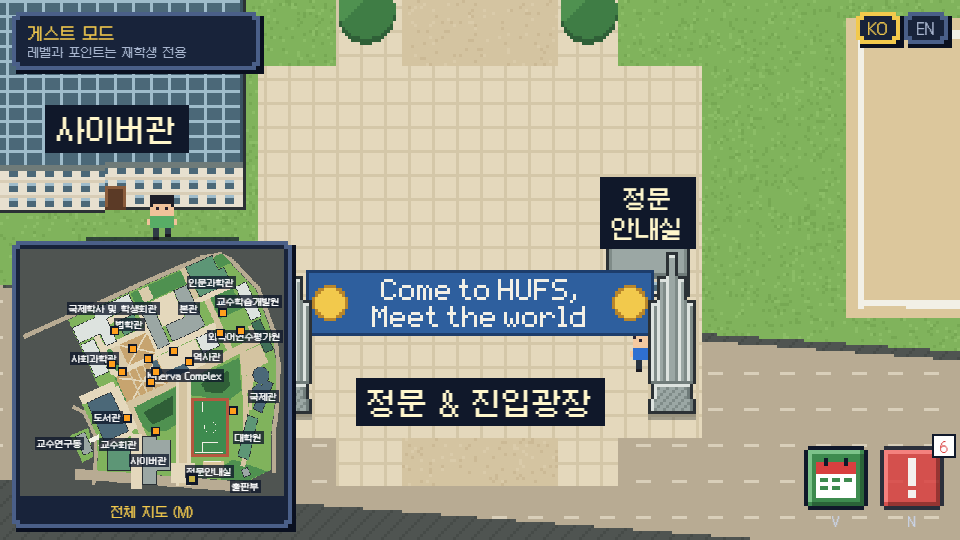
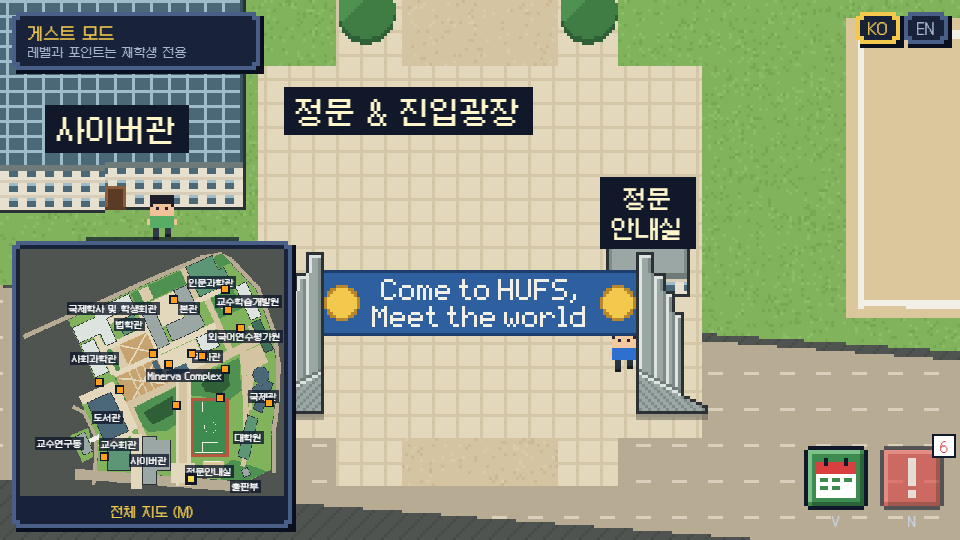
fix: 정문 기둥 24px 비대칭 · SPAWN 서쪽 6m · 광장 이름표 자리 옮김
- 기둥 16 → 24px, 참고 사진처럼 진입로 쪽이 가장 높고 넓은 판(바깥으로 낮아짐)과
  바깥으로 비스듬히 낮아지는 긴 경사 받침, 동 · 서 거울 대칭(빛은 왼쪽 위 그대로)
- 받침 판정 6m×2m로 다시 계산, 현수막 108px로 두 기둥 안쪽 면 사이에 물림
- SPAWN 서쪽 6m(x 1022 → 998): 첫 화면에서 두 기둥 · 현수막 · 정문안내실이
  PC 미니맵 · 휴대폰 미니맵 · 이동 패드 · 버튼 줄에 가리지 않게(테스트에 HUD 범위)
- "정문 & 진입광장" 이름표를 현수막 바로 아래에서 광장 왼쪽 위로(tagM)
- 캡처 교체 + 바꾸기 전 00-before.png, 문서 갱신

diff --git a/src/gfx/campusGate.js b/src/gfx/campusGate.js
@@ -27,9 +27,13 @@ const BANNER = {
   text: hex(PALETTE.line), // 흰 선 #f2f0e6
 };
 
-// 기둥 세로 석재 판 5장: [폭, 높이(바닥부터 px)] — 가운데가 가장 높음
-export const SLABS = [[3, 38], [3, 46], [4, 54], [3, 46], [3, 38]];
-export const BASE_H = 10; // 경사 받침 높이
+// 기둥 세로 석재 판(서쪽 기둥 기준, 바깥 → 진입로 쪽): [폭, 높이(바닥부터 px)].
+// 진입로 쪽(안쪽)이 가장 높고 넓은 판, 바깥으로 갈수록 낮아짐. 판은 바깥에서 SLAB_FROM px부터 서고, 그 바깥은 경사 받침만.
+export const SLABS = [[3, 34], [3, 41], [4, 47], [6, 54]];
+export const SLAB_FROM = 8;
+// 경사 받침: 진입로 쪽 높이 RAMP_HIGH px에서 바깥 끝 RAMP_LOW px까지 비스듬히 낮아짐(기둥 폭 전체, 사선 줄무늬)
+export const RAMP_HIGH = 14;
+export const RAMP_LOW = 3;
 
 function canvasData(w, h) {
   const data = new Uint8ClampedArray(w * h * 4);
@@ -40,41 +44,56 @@ function canvasData(w, h) {
   return { data, put };
 }
 
-// 기둥 한 개: 폭 16 × (높이 54 + 그림자 2)
-export function paintPillar() {
+// 서쪽 기둥 좌표(u: 0 = 바깥 끝, W-1 = 진입로 쪽)에서 그 칸이 무엇인지: null(빈칸) · { ramp, stripe } · { slab, left, right, top }
+function pillarShape(W, H) {
+  const slabs = [];
+  let u = SLAB_FROM;
+  SLABS.forEach(([w, h], k) => {
+    slabs.push({ k, from: u, to: u + w - 1, top: H - h });
+    u += w;
+  });
+  const rampTop = (x) => H - Math.round(RAMP_LOW + ((RAMP_HIGH - RAMP_LOW) * x) / (W - 1));
+  return (x, y) => {
+    if (x < 0 || x >= W || y < 0 || y >= H) return null;
+    if (y >= rampTop(x)) return { ramp: true, top: rampTop(x) };
+    const s = slabs.find((q) => x >= q.from && x <= q.to);
+    return s && y >= s.top ? { slab: s.k, from: s.from, to: s.to, top: s.top } : null;
+  };
+}
+
+// 기둥 한 개: 폭 24 × (높이 54 + 그림자 2). side "west"(진입로 쪽 = 오른쪽) · "east"(거울, 진입로 쪽 = 왼쪽).
+// 모양만 거울로 뒤집고, 빛(왼쪽 위)은 뒤집지 않습니다: 어느 쪽 기둥이든 윗면 · 왼쪽 면 밝게, 오른쪽 면 어둡게.
+export function paintPillar(side = "west") {
   const { pillarW: W, pillarH: H, shadow } = GATE_ART;
   const { data, put } = canvasData(W, H + shadow);
-  // 실루엣: 판 5장 + 받침(아래 10줄, 위 5줄은 양옆 1px씩 들어간 경사)
-  const slabAt = [];
-  let sx = 0;
-  SLABS.forEach(([w, h], k) => {
-    for (let i = 0; i < w; i++) slabAt[sx + i] = { k, left: sx, right: sx + w - 1, top: H - h };
-    sx += w;
-  });
-  const baseTop = H - BASE_H;
-  const inBase = (x, y) => y >= baseTop && y < H && (y >= baseTop + BASE_H / 2 ? x >= 0 && x < W : x >= 1 && x < W - 1);
-  const inSlab = (x, y) => x >= 0 && x < W && y >= slabAt[x].top && y < baseTop;
-  const solid = (x, y) => inBase(x, y) || inSlab(x, y);
+  const shapeWest = pillarShape(W, H);
+  const mirror = side === "east";
+  const at = (x, y) => shapeWest(mirror ? W - 1 - x : x, y);
+  const solid = (x, y) => at(x, y) !== null;
+  const sameSlab = (a, b) => a && b && !a.ramp && !b.ramp && a.slab === b.slab;
   for (let y = 0; y < H; y++) {
     for (let x = 0; x < W; x++) {
-      if (!solid(x, y)) continue;
+      const p = at(x, y);
+      if (!p) continue;
       // 바깥 둘레 1px는 윤곽(건물과 같은 #2b3135)
       if (!solid(x - 1, y) || !solid(x + 1, y) || !solid(x, y - 1) || !solid(x, y + 1)) {
         put(x, y, STONE.outline);
         continue;
       }
-      if (inBase(x, y)) {
-        // 경사 받침: 맨 윗줄은 빛 받는 모서리, 왼쪽 밝게 · 오른쪽 그늘, 안쪽은 2px 간격 사선(/) 줄무늬
-        if (y === baseTop || !solid(x - 2, y) || (y === baseTop + BASE_H / 2 && !inBase(x, y - 1))) put(x, y, STONE.light);
-        else if (!solid(x + 2, y)) put(x, y, STONE.groove);
-        else put(x, y, (x + y) % 3 === 0 ? STONE.dark : STONE.mid);
+      if (p.ramp) {
+        // 경사 받침: 비스듬한 윗면은 빛 받는 모서리, 안쪽은 2px 간격 사선 줄무늬(바깥으로 내려가는 방향, 거울이면 반대)
+        const up = at(x, y - 1);
+        if (!up || !up.ramp) put(x, y, STONE.light);
+        else put(x, y, (mirror ? x - y + 300 : x + y) % 3 === 0 ? STONE.dark : STONE.mid);
         continue;
       }
-      const s = slabAt[x];
-      if (y === s.top + 1) put(x, y, STONE.light); // 윗면
-      else if (y === baseTop - 1) put(x, y, STONE.groove); // 판이 받침에 묻히는 그늘 줄
-      else if (x === s.left || (s.left === 0 && x === 1)) put(x, y, STONE.light); // 왼쪽 면
-      else if (x === s.right || (s.right === W - 1 && x === W - 2)) put(x, y, STONE.dark); // 오른쪽 면
+      const left = at(x - 1, y);
+      const right = at(x + 1, y);
+      const below = at(x, y + 1);
+      if (y === p.top + 1) put(x, y, STONE.light); // 윗면
+      else if (below && below.ramp) put(x, y, STONE.groove); // 판이 받침에 묻히는 그늘 줄
+      else if (!sameSlab(p, left) || !solid(x - 2, y)) put(x, y, STONE.light); // 판 왼쪽 면(윤곽 바로 안쪽 포함)
+      else if (!sameSlab(p, right) || !solid(x + 2, y)) put(x, y, STONE.dark); // 판 오른쪽 면(윤곽 바로 안쪽 포함)
       else put(x, y, STONE.mid);
     }
   }
@@ -156,11 +175,12 @@ export function addCampusGate(scene) {
     canvas.getContext("2d").putImageData(new ImageData(data, w, h), 0, 0);
     scene.textures.addCanvas(key, canvas);
   };
-  add("gate-pillar", paintPillar);
+  add("gate-pillar-west", () => paintPillar("west"));
+  add("gate-pillar-east", () => paintPillar("east"));
   add("gate-banner", paintBanner);
   // 정수 좌표 · 왼쪽 위 기준이라 카메라 3배에서 픽셀이 흐려지지 않습니다. 현수막은 기둥보다 살짝 뒤(양 끝이 기둥 안쪽 면에 물림).
   const { banner } = GATE;
-  const images = GATE.pillars.map((p) => scene.add.image(p.rect.x, p.rect.y, "gate-pillar").setOrigin(0).setDepth(GATE.depth));
+  const images = GATE.pillars.map((p, i) => scene.add.image(p.rect.x, p.rect.y, i === 0 ? "gate-pillar-west" : "gate-pillar-east").setOrigin(0).setDepth(GATE.depth));
   images.push(scene.add.image(banner.x, banner.y, "gate-banner").setOrigin(0).setDepth(GATE.depth - 0.5));
   return images;
 }

diff --git a/src/data/campusV2Data.js b/src/data/campusV2Data.js
@@ -5,7 +5,9 @@
 // 정문에서 들어가는 진입로가 화면 아래 → 위로 곧게 서도록 돌리는 각도(시계 방향, 도). 측정 근거는 GRAPHICS.md
 export const ROTATION_DEG = 65.6;
 
-export const SPAWN_M = [147.1,-101.8];
+// 시작 위치. 11/27 정문을 세우며 서쪽으로 약 6m(화면 x 1022 → 998px): 첫 화면에서 두 기둥 · 현수막 · 정문안내실이
+// 미니맵(PC 왼쪽 아래 · 휴대폰 왼쪽 위) · 아래 버튼 줄에 가리지 않게(tests/campusGate.test.js)
+export const SPAWN_M = [144.9,-107.3];
 
 // [재질, 다각형[[E, N], ...]]
 export const AREAS = [
@@ -229,15 +231,16 @@ export const OPEN_SPACES_M = [
   {"id":"field","official":[102,-35],"poly":[[48.5,-45.6],[73,8.4],[156.8,-29.6],[132.3,-83.6]]},
   {"id":"square","official":[-7,-48],"poly":[[-31.5,-2.3],[-4,-2.3],[-4,-68.7],[-31.5,-68.7]],"mapLabelOffset":[-80,-40]},
   {"id":"lawn","official":[-9,-106],"poly":[[-72.5,-65.8],[12.7,-65.8],[12.7,-139.4],[-72.5,-139.4]]},
-  {"id":"gate","official":[145,-113],"poly":[[128.8,-115.5],[144.1,-81.8],[172.3,-94.6],[157,-128.3]],"tagAt":"bottom","mapLabelOffset":[-92,16]},
+  // tagM: 맵 위 이름표 가운데(미터). 11/27 정문 기둥 · 현수막을 세우며 광장 아래쪽 → 광장 왼쪽 위(현수막에서 40px 넘게, 시작 캐릭터 · 정문안내실 간판과 안 겹침)
+  {"id":"gate","official":[145,-113],"poly":[[128.8,-115.5],[144.1,-81.8],[172.3,-94.6],[157,-128.3]],"tagM":[137.5,-105.7],"mapLabelOffset":[-92,16]},
 ];
 
-// 정문 기둥 한 쌍(11/27 종헌 승인): 걷기 판정에서 막는 받침(화면 기준 4m × 2m)만 미터 다각형으로 둡니다.
-// 광장 아래 끝(이문로 쪽), 진입로 가운데 선에서 좌우 16m 대칭. 기둥 · 현수막 그림은 맵 텍스처에 칠하지 않고
+// 정문 기둥 한 쌍(11/27 종헌 승인, 같은 날 폭 4m → 6m): 걷기 판정에서 막는 받침(화면 기준 6m × 2m)만 미터 다각형으로 둡니다.
+// 광장 아래 끝(이문로 쪽), 진입로 가운데 선(화면 x 1016px) 기준 좌우 거울 대칭. 기둥 · 현수막 그림은 맵 텍스처에 칠하지 않고
 // src/gfx/campusGate.js가 따로 세웁니다(크기 · 자리 계산은 campusV2.js GATE). 참고 사진은 보고 따라 그리기만 했습니다.
 export const GATE_PILLARS_M = [
-  [[153.5,-126.2],[155.1,-122.5],[157,-123.4],[155.3,-127]], // 서쪽(화면 왼쪽)
-  [[166.7,-97],[168.4,-93.4],[170.2,-94.2],[168.5,-97.9]], // 동쪽(화면 오른쪽, 정문안내실 아래)
+  [[153.1,-127.1],[155.6,-121.6],[157.4,-122.5],[154.9,-127.9]], // 서쪽(화면 왼쪽) x 940~963px
+  [[166.3,-97.9],[168.8,-92.5],[170.6,-93.3],[168.1,-98.8]], // 동쪽(화면 오른쪽, 정문안내실 아래) x 1068~1091px
 ];
 
 // 반드시 걸어서 지나갈 수 있어야 하는 통로(테스트가 확인)

diff --git a/src/data/campusV2.js b/src/data/campusV2.js
@@ -119,9 +119,9 @@ export const BUILDINGS = BUILDINGS_M.map((b, index) => {
 export const OPEN_SPACES = OPEN_SPACES_M.map((s) => {
   const poly = s.poly.map(toWorld);
   const c = centroid(poly);
-  // tagAt: "bottom"이면 맵 위 이름표를 공간 아래쪽에 둡니다(정문 광장: 시작 위치 캐릭터 · 정문안내실 간판을 가리지 않게)
-  const tagY = s.tagAt === "bottom" ? Math.max(...poly.map((p) => p[1])) - 12 : c[1];
-  return { ...s, ...named(s.id), kind: "open", areaPolys: [poly], tag: { x: c[0], y: tagY }, mapLabel: offset(c, s.mapLabelOffset) };
+  // tagM(미터)이 있으면 맵 위 이름표를 그 자리에, 없으면 공간 가운데(정문 광장: 현수막 · 시작 캐릭터 · 정문안내실 간판을 피한 자리)
+  const tag = s.tagM ? toWorld(s.tagM) : c;
+  return { ...s, ...named(s.id), kind: "open", areaPolys: [poly], tag: { x: tag[0], y: tag[1] }, mapLabel: offset(c, s.mapLabelOffset) };
 });
 
 // ── 재질 격자(텍스처 해상도) ──────────────────────────────
@@ -196,10 +196,11 @@ export const feetOverlap = (x, y, ox, oy) => Math.abs(x - ox) < FEET.right - FEE
 
 // ── 정문 기둥 · 현수막(그림은 src/gfx/campusGate.js) ─────────────
 // 받침: 판정 칸(1m) 가운데 점이 받침 다각형 안이면 막습니다(4×2칸). 그림 사각형은 그 칸들의 바깥 테두리에 맞춥니다.
-// 크기(11/27 승인): 기둥 16×54px(+바닥 그림자 2px), 현수막 116×22px — 받침 바닥에서 26~48px 위, 양 끝 2px는 기둥 안쪽에 물림.
+// 크기(11/27 승인 · 같은 날 기둥 폭 16 → 24px): 기둥 24×54px(+바닥 그림자 2px), 현수막은 두 기둥 안쪽 면 사이(108×22px)
+// — 받침 바닥에서 26~48px 위, 양 끝 2px는 기둥 안쪽(가장 높은 판) 면에 물림.
 // 깊이: 캐릭터 · 안내원 · 퀴즈 상자는 깊이 = 스프라이트 가운데 y이고 발바닥은 가운데 + 8px(FEET.bottom)입니다.
 //       같은 기준으로 비교하도록 정문 깊이 = 받침 바닥 y − 8. 받침 바로 아래(바깥)에 선 캐릭터는 앞에, 안쪽은 뒤에 그려집니다.
-export const GATE_ART = { pillarW: 16, pillarH: 54, shadow: 2, bannerTop: 48, bannerH: 22, bannerOverlap: 2 };
+export const GATE_ART = { pillarW: 24, pillarH: 54, shadow: 2, bannerTop: 48, bannerH: 22, bannerOverlap: 2 };
 export const GATE = (() => {
   const pillars = GATE_PILLARS_M.map((poly) => {
     const px = poly.map(toWorld);

diff --git a/docs/GRAPHICS.md b/docs/GRAPHICS.md
@@ -36,7 +36,7 @@
 
 ### 0-3. 걷기 판정(1m 격자)
 
-- 기본은 **걸을 수 있음**. 막는 것: 건물, 캠퍼스 밖 · 바깥 도로(교수연구동 건널목만 열림), 분수 물, 유리 천창, 아주 빽빽한 숲 덩어리 2곳(운동장 서쪽 · 남서쪽 숲 가운데), **정문 기둥 받침 2개(각 4m × 2m = 1m 칸 4×2개, 11/27)**.
+- 기본은 **걸을 수 있음**. 막는 것: 건물, 캠퍼스 밖 · 바깥 도로(교수연구동 건널목만 열림), 분수 물, 유리 천창, 아주 빽빽한 숲 덩어리 2곳(운동장 서쪽 · 남서쪽 숲 가운데), **정문 기둥 받침 2개(각 6m × 2m = 1m 칸 6×2개, 11/27)**.
 - 정문 기둥 받침은 재질 격자(그림)는 그대로 두고 판정 격자에서만 막습니다(`campusV2.js` `walkGrid`). 기둥 위 그림 · 현수막은 막지 않습니다(그 아래로 지나감). 진입로 차도 · 양쪽 보도는 열려 있고, 받침 바로 위에서 아래 키만 누르면 다른 건물 벽처럼 멈춥니다(옆으로 비키면 지나감).
 - 나무 사이 산책 숲 · 가로수 · 골목 · 건물 옆 통로 · 주차장 · 광장 · 계단 단 · 운동장은 모두 걸을 수 있습니다.
 - 캐릭터 발 상자(10×7px = 2.5m × 1.75m)가 막힌 칸에 닿지 않게 움직이고, 막히면 x · y 따로 → ±35° · ±65° 틀어서 비스듬한 벽을 따라 미끄러집니다(`moveFeet`).
@@ -417,13 +417,15 @@ HUFS MAP 건물 좌표(기준점 37.5975, 127.0585에서 잰 미터, E=동쪽+, 
 **정문 → 사이버관 → 본관 → 도서관 → 외국어연수평가원.** 퀘스트 목적지(`state.js`: cyber, flc)와 대사가 있는 NPC(`npcs.js`: cyber, library, gatehouse, 본관 질문 NPC)를 따라 정했습니다. 3단계 외관 교체도 이 순서로 합니다.
 
 1. 정문 광장 · 정문안내실 — 시작 화면. **정문 기둥 한 쌍 · 현수막(11/27, 코드 그림)**:
-   - 자리: 광장 아래 끝(이문로 쪽), 진입로 가운데 선(x 1016px) 좌우 16m 대칭. 받침 미터 좌표 서쪽 [[153.5,-126.2],[155.1,-122.5],[157,-123.4],[155.3,-127]] · 동쪽 [[166.7,-97],[168.4,-93.4],[170.2,-94.2],[168.5,-97.9]] → 화면 x 944~959 · 1072~1087px, y 1440~1447px. 잔디 경계선(y 1411~1421px)에 세우면 동쪽 기둥이 정문안내실 입구(1070, 1410)를 막고 현수막이 시작 위치 캐릭터를 가려서 경계선보다 약 7m 바깥(정문 광장 다각형 안)에 둠. SPAWN은 그대로.
-   - 기둥: 16×54px(+바닥 그림자 2px). 세로 석재 판 5장 폭 3·3·4·3·3px, 높이 38·46·54·46·38px(가운데 최고), 아래 높이 10px 경사 받침(위 5줄은 양옆 1px 들어감)에 2px 간격 사선(/) 줄무늬. 바깥 둘레 1px 윤곽.
-   - 현수막: 116×22px, 받침 바닥에서 26~48px 위(x 958~1073px, y 1400~1421px), 양 끝 2px는 기둥 안쪽 면 뒤로 물림. 파란 바탕 · 진파랑 테두리 1px · 양 끝 무늬 없는 노란 원 · 흰 글씨 두 줄 "Come to HUFS," / "Meet the world". 학교 로고 · 엠블럼 · 실제 현수막 문구 없음.
+   - 자리: 광장 아래 끝(이문로 쪽), 진입로 가운데 선(x 1016px) 기준 좌우 거울 대칭. 받침 미터 좌표 서쪽 [[153.1,-127.1],[155.6,-121.6],[157.4,-122.5],[154.9,-127.9]] · 동쪽 [[166.3,-97.9],[168.8,-92.5],[170.6,-93.3],[168.1,-98.8]] → 화면 x 940~963 · 1068~1091px, y 1440~1447px. 잔디 경계선(y 1411~1421px)에 세우면 동쪽 기둥이 정문안내실 입구(1070, 1410)를 막고 현수막이 시작 위치 캐릭터를 가려서 경계선보다 약 7m 바깥(정문 광장 다각형 안)에 둠.
+   - SPAWN: 서쪽으로 약 6m 옮김(화면 x 1022 → 998px, `SPAWN_M` [144.9,-107.3]). 첫 화면에서 두 기둥 · 현수막 · 정문안내실이 PC 미니맵(왼쪽 아래 x 12~292) · 휴대폰 미니맵(왼쪽 위) · 이동 패드 · 아래 버튼 줄에 가리지 않게(테스트: PC 960 · 휴대폰 가로 폭 960 · 1169 · 1260). 5m(x 1002)면 서쪽 기둥이 미니맵에서 2px밖에 안 떨어져 1m 더 옮김.
+   - 기둥(11/27 2차, 참고 사진을 보고 따라 그림): 24×54px(+바닥 그림자 2px), **비대칭** — 진입로 쪽이 가장 높고 넓은 판, 바깥으로 갈수록 낮아짐. 판 4장(바깥 → 진입로 쪽) 폭 3·3·4·6px · 높이 34·41·47·54px, 바깥 끝 8px는 받침만. 아래 경사 받침은 기둥 폭 전체로 진입로 쪽 높이 14px에서 바깥 끝 3px까지 비스듬히 낮아지고 2px 간격 사선 줄무늬. 동쪽 기둥은 서쪽을 좌우로 뒤집은 모양(빛 방향은 그대로 왼쪽 위). 바깥 둘레 1px 윤곽.
+   - 현수막: 108×22px, 두 기둥 안쪽(가장 높은 판) 면 위쪽 사이, 받침 바닥에서 26~48px 위(x 962~1069px, y 1400~1421px), 양 끝 2px는 기둥 안쪽 면 뒤로 물림. 파란 바탕 · 진파랑 테두리 1px · 양 끝 무늬 없는 노란 원 · 흰 글씨 두 줄 "Come to HUFS," / "Meet the world". 학교 로고 · 엠블럼 · 실제 현수막 문구 없음.
    - 글씨: 직접 찍은 5×7 도트 글꼴 하나(대문자도 같은 굵기, i · l · t · 쉼표만 좁게), 글자 사이 1px · 단어 사이 3px · 줄 사이 2px. 텍스처에 픽셀을 직접 찍고 정수 좌표에 놓아 카메라 3배 · 휴대폰 화면에서 흐려지지 않음.
    - 깊이: 정문 깊이 = 받침 바닥 y − 8(캐릭터 · 안내원 · 퀴즈 상자의 깊이 = 가운데 y, 발바닥 = 가운데 + 8과 같은 기준). 현수막은 기둥보다 0.5 뒤. 이름표 · 목적지 화살표 · 말풍선 · HUD 깊이는 그대로.
-   - 정문 그림에 가려 안 보이는 자리(반투명 처리 없음): 현수막 뒤 y 1407~1414px 띠(x 962~1070, 지나갈 때 잠깐), 기둥 바로 뒤 x 949~957 · 1075~1083, y 1409~1432px(서 있으면 숨음).
-   - 정문안내실 이름표는 지붕 가운데 대안 자리가 동쪽 기둥 · 현수막에 가려 위로만 올림(`buildingLabels.js` `liftClear`). 퀴즈 상자 후보 중 정문 그림과 겹치는 자리는 뺌.
+   - 정문 그림에 가려 안 보이는 자리(반투명 처리 없음): 현수막 뒤 y 1407~1414px 띠(x 958~1074, 지나갈 때 잠깐), 기둥 바로 뒤 x 953~961 · 1071~1079, y 1414~1432px(서 있으면 숨음).
+   - 정문안내실: 입구 칸(1070, 1410)은 열려 있고 걸어서 닿음. 동쪽 기둥의 가장 높은 판(x 1068~)이 문 그림(x 1067~1073) 7칸 중 6칸과 지붕 오른쪽 아래를 가림. 이름표는 지붕 가운데 대안 자리가 동쪽 기둥 · 현수막에 가려 위로만 올림(`buildingLabels.js` `liftClear`). 퀴즈 상자 후보 중 정문 그림과 겹치는 21곳은 뺌(2,464 → 2,443).
+   - "정문 & 진입광장" 이름표: 광장 아래쪽(현수막 바로 아래) → 광장 왼쪽 위(`OPEN_SPACES_M` gate `tagM` [137.5,-105.7], 화면 (992, 1348)px). 현수막에서 16px 넘게, 시작 캐릭터 · 정문안내실 이름표와 안 겹침.
 2. 사이버관 — 정문 바로 옆, 첫 퀘스트 목적지
 3. 본관 — 질문 입력창 NPC
 4. 도서관 — 남쪽 가운데 큰 건물, 태양광 지붕이 눈에 띔
@@ -468,4 +470,4 @@ HUFS MAP 건물 좌표(기준점 37.5975, 127.0585에서 잰 미터, E=동쪽+, 
 | 2026-11-22 | 1단계 확정: 시연 동선, 휴게공간 오디 제외 · 정문안내실 위치 · 잔디광장 · 정문&진입광장 추가(영어 이름 HUFS MAP English 대조) · 지하 건물 규칙 | 이종헌 |
 | 2026-11-22 | 맵 v2: 정문 진입로 기준 65.6° 회전, 미터 다각형 → 2×2 텍스처, 1m 판정 격자, 베이지 길 팔레트, 통로 · 끼임 방지 테스트, 성능 실측, `?map=v1` 되돌리기(0장) | 이종헌 |
 | 2026-11-26 | 11장 도구: PixelLab은 캐릭터 · NPC 스프라이트 초안에만, Aseprite로 24색 팔레트에 맞춰 다듬은 것만 넣음, 생성물 사용 조건은 약관 확인 후 기록(12장 칸 추가), Retro Diffusion 조건부 · 타일 에셋팩 안 함. v1 삭제 시점을 12/3 밤 동결 뒤로 | 이종헌 |
-| 2026-11-27 | 정문 기둥 · 현수막(코드 그림): 광장 아래 끝 대칭 자리, 받침 4m×2m만 판정에서 막음, 따로 세운 그림 · 받침 기준 깊이, 5×7 도트 글꼴 현수막, 새 색 4개 · 반투명 그림자 줄(0-4), 정문안내실 이름표 위로, 퀴즈 후보 제외(0-2 · 0-3 · 10장) | 이종헌 |
+| 2026-11-27 | 정문 기둥 · 현수막(코드 그림): 광장 아래 끝 거울 대칭 자리, 받침 6m×2m만 판정에서 막음, 따로 세운 그림 · 받침 기준 깊이, 비대칭 기둥(진입로 쪽 최고 · 바깥으로 낮아지는 경사 받침), 5×7 도트 글꼴 현수막, 새 색 4개 · 반투명 그림자 줄(0-4), SPAWN 서쪽 6m(미니맵 · HUD 피함), 정문안내실 이름표 위로, "정문 & 진입광장" 이름표 광장 왼쪽 위로, 퀴즈 후보 제외(0-2 · 0-3 · 10장) | 이종헌 |

diff --git a/docs/ARCHITECTURE.md b/docs/ARCHITECTURE.md
@@ -111,7 +111,7 @@ class explore,quiz,notice,progress,rules,userDb,login,limiter,mapInfo,newApi,vec
 
 | 상자 | 주요 파일 | 담당 |
 | --- | --- | --- |
-| 캠퍼스 탐험 | `src/scenes/CampusScene.js`, `src/scenes/MapScene.js`(전체 지도 · 나침반), `src/data/world.js`(맵 선택: 기본 v2, `?map=v1`이면 옛 타일맵 — 12/3 밤 동결 뒤 이상 없으면 v1 삭제). **v2**: `src/data/campusV2Data.js`(미터 좌표 다각형) → `src/data/campusV2.js`(정문 진입로 기준 65.6° 회전 · 픽셀 채우기 · 1m 판정 격자 · 발 상자 이동 · 입구 · 퀴즈 상자 자리) → `src/gfx/campusV2Paint.js` · `campusV2Texture.js`(2×2 조각 텍스처, 축소 지도). **정문 기둥 · 현수막(11/27, v2 전용)**: `campusV2Data.js` `GATE_PILLARS_M`(받침 미터 다각형) → `campusV2.js` `GATE`(받침 4m×2m를 판정 격자에서만 막음 · 그림 사각형 · 깊이 = 받침 바닥 − 8, `gateRects`로 퀴즈 상자 후보 제외) → `src/gfx/campusGate.js`(기둥 · 현수막 도트와 5×7 도트 글꼴을 코드로 찍어 텍스처 2장, `addCampusGate`가 이미지 3장으로 세움) → `CampusScene`(v2일 때만, 건물 이름표는 정문 그림을 피하고 가리면 `buildingLabels.js` `liftClear`로 위로). 테스트 `tests/campusGate.test.js`. **v1**: `src/data/campus.js`(88×90 타일), `src/gfx/textures.js`. 기준은 [`docs/GRAPHICS.md`](GRAPHICS.md). 건물 이름표: `src/data/buildingLabels.js`(입구에 가까운 지붕 위, 넘치면 작게 → 두 줄 → 지붕 가운데, 캐릭터보다 아래 깊이, 안내원 글자 칸은 피함). **정문 고정값**: `campusV2Data.js` `DOOR_OVERRIDES`(11개 건물, 11/25 종헌 지정 자리 · 외벽 면) → `campusV2.js` `computeDoors`가 자동 입구를 덮어씀, 문 그림은 면 방향대로. **건물 소개 안내원**(13곳: 정문 지정 11곳 + 법학관 + Minerva Complex(정문 대신 이름표 옆, `guides.js` `GUIDE_NEAR_LABEL`), 정문안내실은 `officeView.js` `GUIDE_EXCLUDED`로 제외): `src/data/guides.js`(문 바로 옆 칸 · 발밑 이름표 칸) → `world.js` `place.guide` → `CampusScene`(안내원 · 발밑 "건물 소개 안내원" 작은 이름표 · 머리 위 말풍선 `src/ui/guidePrompt.js` "[Enter] 시설 소개"(남색 반투명 + 키 모양), Enter · 안내원 클릭 · 문구 터치로 `src/ui/officeOverlay.js` 창, 거리 `src/ui/officeView.js` `GUIDE_RANGE`, 안내원 칸은 지나갈 수 없음). 테스트 `tests/buildingGuide.test.js` · `tests/campusV2.test.js`(통로 · 끼임 방지 포함) · `tests/buildingLabels.test.js` · `tests/campusDrawn.test.js`(모든 건물이 텍스처 · 축소 지도에 그려지고 윤곽선이 있는지, 두 줄 이름) · `tests/campusLayout.test.js`(v1) | 이종헌 |
+| 캠퍼스 탐험 | `src/scenes/CampusScene.js`, `src/scenes/MapScene.js`(전체 지도 · 나침반), `src/data/world.js`(맵 선택: 기본 v2, `?map=v1`이면 옛 타일맵 — 12/3 밤 동결 뒤 이상 없으면 v1 삭제). **v2**: `src/data/campusV2Data.js`(미터 좌표 다각형) → `src/data/campusV2.js`(정문 진입로 기준 65.6° 회전 · 픽셀 채우기 · 1m 판정 격자 · 발 상자 이동 · 입구 · 퀴즈 상자 자리) → `src/gfx/campusV2Paint.js` · `campusV2Texture.js`(2×2 조각 텍스처, 축소 지도). **정문 기둥 · 현수막(11/27, v2 전용)**: `campusV2Data.js` `GATE_PILLARS_M`(받침 미터 다각형) → `campusV2.js` `GATE`(받침 6m×2m를 판정 격자에서만 막음 · 그림 사각형 · 깊이 = 받침 바닥 − 8, `gateRects`로 퀴즈 상자 후보 제외) → `src/gfx/campusGate.js`(비대칭 기둥 동 · 서 거울 · 현수막 도트와 5×7 도트 글꼴을 코드로 찍어 텍스처 3장, `addCampusGate`가 이미지 3장으로 세움). 시작 위치 `SPAWN_M`은 첫 화면에서 정문이 미니맵 · HUD에 가리지 않는 자리(11/27 서쪽 6m), "정문 & 진입광장" 이름표 자리는 `OPEN_SPACES_M` `tagM`. 정문 그림은 `CampusScene`이 세움(v2일 때만, 건물 이름표는 정문 그림을 피하고 가리면 `buildingLabels.js` `liftClear`로 위로). 테스트 `tests/campusGate.test.js`. **v1**: `src/data/campus.js`(88×90 타일), `src/gfx/textures.js`. 기준은 [`docs/GRAPHICS.md`](GRAPHICS.md). 건물 이름표: `src/data/buildingLabels.js`(입구에 가까운 지붕 위, 넘치면 작게 → 두 줄 → 지붕 가운데, 캐릭터보다 아래 깊이, 안내원 글자 칸은 피함). **정문 고정값**: `campusV2Data.js` `DOOR_OVERRIDES`(11개 건물, 11/25 종헌 지정 자리 · 외벽 면) → `campusV2.js` `computeDoors`가 자동 입구를 덮어씀, 문 그림은 면 방향대로. **건물 소개 안내원**(13곳: 정문 지정 11곳 + 법학관 + Minerva Complex(정문 대신 이름표 옆, `guides.js` `GUIDE_NEAR_LABEL`), 정문안내실은 `officeView.js` `GUIDE_EXCLUDED`로 제외): `src/data/guides.js`(문 바로 옆 칸 · 발밑 이름표 칸) → `world.js` `place.guide` → `CampusScene`(안내원 · 발밑 "건물 소개 안내원" 작은 이름표 · 머리 위 말풍선 `src/ui/guidePrompt.js` "[Enter] 시설 소개"(남색 반투명 + 키 모양), Enter · 안내원 클릭 · 문구 터치로 `src/ui/officeOverlay.js` 창, 거리 `src/ui/officeView.js` `GUIDE_RANGE`, 안내원 칸은 지나갈 수 없음). 테스트 `tests/buildingGuide.test.js` · `tests/campusV2.test.js`(통로 · 끼임 방지 포함) · `tests/buildingLabels.test.js` · `tests/campusDrawn.test.js`(모든 건물이 텍스처 · 축소 지도에 그려지고 윤곽선이 있는지, 두 줄 이름) · `tests/campusLayout.test.js`(v1) | 이종헌 |
 | 빠른 검색창 | `src/ui/searchBar.js` → `src/data/askApi.js` → `api/ask.js` (11/20~ `shared/academicDate.js`: 한국 시간 오늘 날짜 · 현재 학기를 지시문에 붙이고, 답변의 날짜(연-월-일 · 월-일)나 연도(YYYY학년도 · YYYY년)가 근거 조각에 없으면 "찾지 못함"으로 바꿈. 테스트 `tests/academicDate.test.js`. 11/20~ `api/_lib/decompose.js`: 질문을 하위 질문 최대 2개로 쪼개(`parseQueries`) 하위 질문마다 동시에 벡터 검색하고 `mergeDocs`로 합침, RPC는 `CHUNKS_RPC`(match_chunks · match_chunks_next만 허용). 테스트 `tests/decompose.test.js`. `api/_lib/answerFormat.js`: 답변의 줄 맨 앞 번호 목록을 지우고, 넘긴 자료 수를 넘는 인용 번호를 지움. 11/22~ 출력 상한(400)에 걸려 끊긴 답은 끝난 문장까지만(`trimTruncated`). 테스트 `tests/answerFormat.test.js`) | 신중혁 |
 | 출처 수집일 | `api/_lib/sourceDates.js`: 검색된 조각 ID로 `chunks` 또는 `chunks_next`의 `collected_at` 일괄 조회, 한국 시간 기준 YYYY-MM-DD 변환. `api/ask.js`의 `citedSources()`가 기존 출처에 `collectedAt` 추가. 동일 URL은 확인 가능한 날짜 중 가장 오래된 수집일 표시. 조회 실패 또는 날짜가 없으면 기존 출처 유지. `src/scenes/DialogScene.js` · `src/state.js`에서 한·영 표시. 테스트 `tests/sourceDates.test.js` · `tests/answerCache.test.js`. SQL 변경 없음, Preview 검수 예정 | 신중혁(서버·테스트) · 이종헌(화면 주 담당) |
 | O/X 퀴즈 | `src/scenes/QuizScene.js`, `src/quizBoxes.js`(상자 자리는 `world.js` `WORLD.quizSpots`), `src/quizProgress.js`, `src/data/quiz.js` | 이종헌(배치) · 신중혁(문항) |
